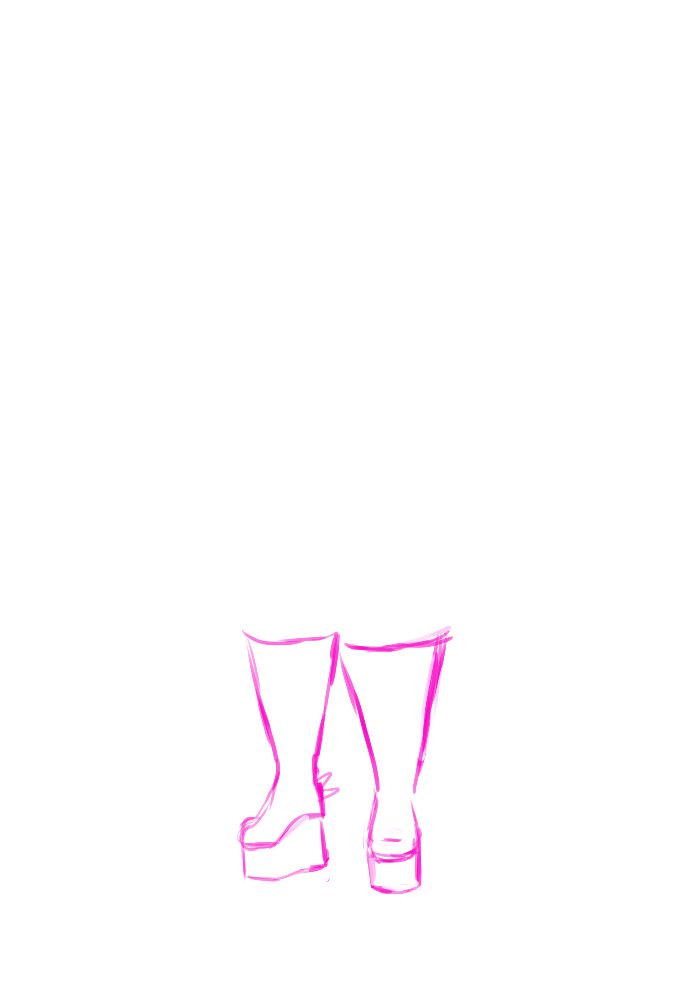
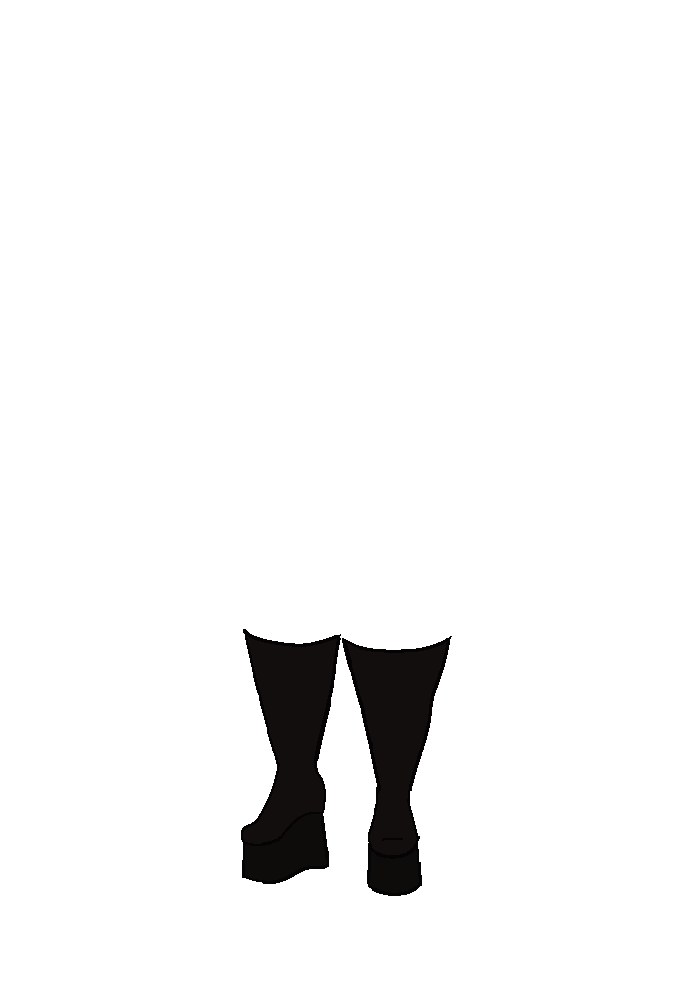
more clothing

Changed region(s): [[0.33, 0.62, 0.66, 0.899]]

diff --git a/sharpiemaker/index.html b/sharpiemaker/index.html
@@ -1,7 +1,7 @@
 <!DOCTYPE html>
 <html>
   <head>
-    <title>RatMaker™</title>
+    <title>SharpieMaker™</title>
     <link
       href="https://fonts.googleapis.com/css?family=Aldrich|Chakra+Petch|Frank+Ruhl+Libre|Open+Sans|Press+Start+2P&display=swap"
       rel="stylesheet"
@@ -271,11 +271,13 @@
             <h3>High waister</h3>
              <span class="option pants" img-url="01 - bike shorts - high rise.PNG">Bike Shorts</span>
             <!--<span class="option pants" img-url="01 - cargo pants - high rise.PNG">Cargo Pants</span>
-            <span class="option pants" img-url="01 - long skirt- high waisted.PNG">Long Skirt</span>
             <span class="option pants" img-url="01 - pants - high waisted.PNG">wide leg pants</span>
             <span class="option pants" img-url="01 - pleated skirt - high rise - held.PNG"> pleated skirt (held)</span>
             <span class="option pants" img-url="01 - skirt - high waisted.PNG">skirt</span>
             <span class="option pants" img-url="01 - tutu - high rise.PNG">tutu</span> -->
+            <span class="option pants" img-url="01 - long skirt- high waisted.PNG">Long Skirt</span>
+
+
             <h3>Low Rise</h3>
             <span class="option pants" img-url="01 - bike shorts - low rise.PNG">Bike Shorts</span>
             <!-- <span class="option pants" img-url="01 - pleated skirt - low rise.PNG">pleated skirt</span>
@@ -295,6 +297,8 @@
                                                       -->
             <h2>Shirts</h2>
             <span class="option shirt" img-url="00 - turtleneck.PNG">turtleneck</span>
+            <span class="option shirt" img-url="00 - tube top.PNG">tube top</span>
+
             <!-- <span class="option shirt" img-url="00 - cape corset.PNG">cape corset</span>
             <span class="option shirt" img-url="00 - corset.PNG">corset</span>
             <span class="option shirt" img-url="00 - long sleeve striped t.PNG">long sleeve striped tee</span>
@@ -376,7 +380,8 @@
             <span class="option shoes" img-url="02 - boots fasteners.PNG">boots w fasteners</span> -->
             <span class="option shoes" img-url="02 - feet.PNG">feet</span>
             <span class="option shoes" img-url="02 - chunky ankle.PNG">chunky ankle</span>
-            <!-- <span class="option shoes" img-url="02 - gogo boots.PNG">gogo boots</span>
+            <span class="option shoes" img-url="02 - gogo boots.PNG">gogo boots</span>
+            <!-- 
             <span class="option shoes" img-url="02 - laced boots.PNG">laced boots</span>
             <span class="option shoes" img-url="02 - mary janes.PNG">mary janes</span>
             <span class="option shoes" img-url="02 - platform laced boots.PNG">platform laced boots</span>
@@ -397,14 +402,14 @@
                    ███    ███ -->
                    
             <h2>slips and dresses and overalls</h2>
-            <!-- <span class="option shirt pants" img-url="04 - slip.PNG">slip</span> 
+            <!--  
             <span class="option shirt pants" img-url="04 - spaghetti strap dress.PNG">spaghetti strap dress</span>
             <span class="option shirt pants" img-url="04 - wednesday adams dress.PNG">wednesday adams dress</span>
             <span class="option shirt pants" img-url="04 - witchy dress.PNG">witchy dress</span> -->
             <span class="option pants" img-url="04 - overalls shorts.PNG">overalls shorts</span>
             <span class="option pants" img-url="04 - overalls dress short.PNG">overalls dress short</span>
             <span class="option pants" img-url="04 - overalls dress long.PNG">overalls dress long</span>
-
+            <span class="option shirt pants" img-url="04 - slip.PNG">slip</span>
 
             <hr/>
             <h2>Sweaters and overwear</h2>            
